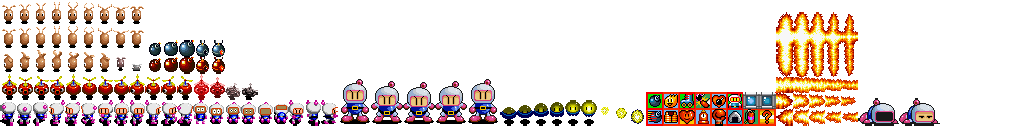
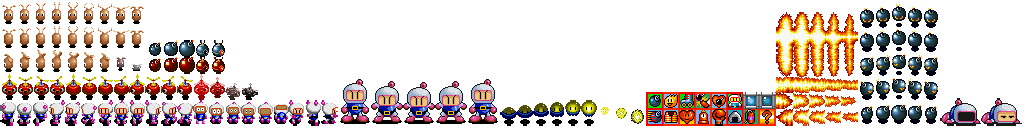
Add enemy BombEnemy

diff --git a/core/src/com/ychstudio/builders/ActorBuilder.java b/core/src/com/ychstudio/builders/ActorBuilder.java
@@ -437,6 +437,96 @@ public class ActorBuilder {
         body.setUserData(e);
     }
 
+    public void createBombEnemy(float x, float y) {
+        // box2d
+        BodyDef bodyDef = new BodyDef();
+        bodyDef.type = BodyDef.BodyType.DynamicBody;
+        bodyDef.linearDamping = 12.0f;
+        bodyDef.position.set(x, y);
+
+        Body body = b2dWorld.createBody(bodyDef);
+        CircleShape circleShape = new CircleShape();
+        circleShape.setRadius(radius);
+        FixtureDef fixtureDef = new FixtureDef();
+        fixtureDef.shape = circleShape;
+        fixtureDef.filter.categoryBits = GameManager.ENEMY_BIT;
+        fixtureDef.filter.maskBits = Enemy.defaultMaskBits;
+        body.createFixture(fixtureDef);
+
+        circleShape.dispose();
+
+        // animation
+        HashMap<String, Animation> anims = new HashMap<String, Animation>();
+        TextureAtlas textureAtlas = assetManager.get("img/actors.pack", TextureAtlas.class);
+        TextureRegion textureRegion = textureAtlas.findRegion("BombEnemy");
+        Animation anim;
+
+        Array<TextureRegion> keyFrames = new Array<TextureRegion>();
+        // walking down
+        for (int i = 0; i < 5; i++) {
+            keyFrames.add(new TextureRegion(textureRegion, i * 16, 0, 16, 24));
+        }
+        anim = new Animation(0.1f, keyFrames, Animation.PlayMode.LOOP_PINGPONG);
+        anims.put("walking_down", anim);
+
+        keyFrames.clear();
+        // walking up
+        for (int i = 0; i < 5; i++) {
+            keyFrames.add(new TextureRegion(textureRegion, i * 16, 24, 16, 24));
+        }
+        anim = new Animation(0.1f, keyFrames, Animation.PlayMode.LOOP_PINGPONG);
+        anims.put("walking_up", anim);
+
+        keyFrames.clear();
+        // walking left
+        for (int i = 0; i < 5; i++) {
+            keyFrames.add(new TextureRegion(textureRegion, i * 16, 24 * 2, 16, 24));
+        }
+        anim = new Animation(0.1f, keyFrames, Animation.PlayMode.LOOP_PINGPONG);
+        anims.put("walking_left", anim);
+
+        keyFrames.clear();
+        // walking right
+        for (int i = 0; i < 5; i++) {
+            keyFrames.add(new TextureRegion(textureRegion, i * 16, 24 * 3, 16, 24));
+        }
+        anim = new Animation(0.1f, keyFrames, Animation.PlayMode.LOOP_PINGPONG);
+        anims.put("walking_right", anim);
+
+        keyFrames.clear();
+        // dying
+        for (int i = 0; i < 1; i++) {
+            // no dying sprite
+            keyFrames.add(new TextureRegion(textureRegion, i * 16, 0, 0, 0));
+        }
+        anim = new Animation(0.1f, keyFrames, Animation.PlayMode.NORMAL);
+        anims.put("dying", anim);
+
+        keyFrames.clear();
+        // attacking (up)
+        for (int i = 0; i < 5; i++) {
+            keyFrames.add(new TextureRegion(textureRegion, i * 16, 24 * 4, 16, 24));
+        }
+        anim = new Animation(0.1f, keyFrames, Animation.PlayMode.LOOP_PINGPONG);
+        anims.put("attacking_up", anim);
+
+        Renderer renderer = new Renderer(new TextureRegion(textureRegion, 0, 0, 16, 24), 16 / GameManager.PPM, 24 / GameManager.PPM);
+        renderer.setOrigin(16 / GameManager.PPM / 2, 16 / GameManager.PPM / 2);
+
+        // entity
+        Entity e = new EntityBuilder(world)
+                .with(
+                        new Enemy(1, 1.0f, "EnemyDie2.ogg", "bomb"),
+                        new Transform(x, y, 1, 1, 0),
+                        new RigidBody(body),
+                        new State("walking_down"),
+                        renderer,
+                        new Anim(anims)
+                )
+                .build();
+        body.setUserData(e);
+    }
+
     public void createPlayer(float x, float y, boolean resetPlayerAbilities) {
         // box2d
         BodyDef bodyDef = new BodyDef();

diff --git a/core/src/com/ychstudio/systems/EnemySystem.java b/core/src/com/ychstudio/systems/EnemySystem.java
@@ -104,6 +104,19 @@ public class EnemySystem extends IteratingSystem {
 
         if (enemy.hp <= 0) {
             enemy.state = Enemy.State.DYING;
+            enemy.lifetime = 0;
+        } else {
+            enemy.lifetime += world.getDelta();
+        }
+
+        if (enemy.type.equals("bomb")
+                && enemy.state != Enemy.State.ATTACKING_UP
+                && (int) enemy.lifetime % 20 == 19) {
+            if ((int) (enemy.lifetime * 10) % 10 == 9
+                    && GameManager.enemiesLeft < 12
+                    && MathUtils.random() < 0.05f) {
+                enemy.state = Enemy.State.ATTACKING_UP;
+            }
         }
 
         switch (enemy.state) {
@@ -115,6 +128,11 @@ public class EnemySystem extends IteratingSystem {
                 break;
             case ATTACKING_UP:
                 state.setCurrentState("attacking_up");
+                if (enemy.type.equals("bomb") && state.getStateTime() > 3f) {
+                    enemy.state = Enemy.State.getRandomWalkingState();
+                    ActorBuilder actorBuilder = new ActorBuilder(body.getWorld(), world);
+                    actorBuilder.createBombEnemy(body.getPosition().x, body.getPosition().y);
+                }
                 break;
             case ATTACKING_DOWN:
                 state.setCurrentState("attacking_down");

diff --git a/core/src/com/ychstudio/builders/MapLoader.java b/core/src/com/ychstudio/builders/MapLoader.java
@@ -54,6 +54,7 @@ public class MapLoader {
 
         pixmap = assetManager.get("maps/level_" + level + ".png", Pixmap.class);
         switch (level) {
+            case 4:
             case 3:
                 tileTextureAtlas = assetManager.get("maps/area_2_tiles.pack", TextureAtlas.class);
                 break;
@@ -86,6 +87,9 @@ public class MapLoader {
                     GameManager.getInstance().setPlayerRespawnPosition(new Vector2(x + 0.5f, y + 0.5f));
                 } else if (BLOCK.ENEMY1.sameColor(color)) {
                     switch (level) {
+                        case 4:
+                            actorBuilder.createBombEnemy(x + 0.5f, y + 0.5f);
+                            break;
                         case 3:
                             actorBuilder.createHare(x + 0.5f, y + 0.5f);
                             break;
@@ -99,6 +103,9 @@ public class MapLoader {
                     }
                 } else if (BLOCK.ENEMY2.sameColor(color)) {
                     switch (level) {
+                        case 4:
+                            actorBuilder.createHare(x + 0.5f, y + 0.5f);
+                            break;
                         case 3:
                             actorBuilder.createHare(x + 0.5f, y + 0.5f);
                             break;

diff --git a/core/src/com/ychstudio/components/Enemy.java b/core/src/com/ychstudio/components/Enemy.java
@@ -28,7 +28,10 @@ public class Enemy extends Component {
     public int hp;
     protected float speed;
 
+    public float lifetime; // total time when alive
+    
     private String dieSound;
+    public String type;
 
     public Enemy(int hp) {
         this(hp, 2);
@@ -39,11 +42,19 @@ public class Enemy extends Component {
     }
 
     public Enemy(int hp, float speed, String dieSound) {
+        this(hp, speed, dieSound, "basic");
+    }
+    
+    public Enemy(int hp, float speed, String dieSound, String type) {
         state = State.getRandomWalkingState();
         this.hp = hp;
         this.speed = speed;
-        
+
         this.dieSound = dieSound;
+        
+        this.type = type;
+        
+        this.lifetime = 0;
 
         // increase enemy count
         GameManager.enemiesLeft++;
@@ -68,5 +79,5 @@ public class Enemy extends Component {
     public void setDieSound(String dieSound) {
         this.dieSound = dieSound;
     }
-    
+
 }

diff --git a/core/src/com/ychstudio/gamesys/GameManager.java b/core/src/com/ychstudio/gamesys/GameManager.java
@@ -15,7 +15,7 @@ public class GameManager implements Disposable {
 
     private static final GameManager instance = new GameManager();
 
-    public static final int TOTAL_LEVELS = 3;
+    public static final int TOTAL_LEVELS = 4;
     
     private final AssetManager assetManager;
 
